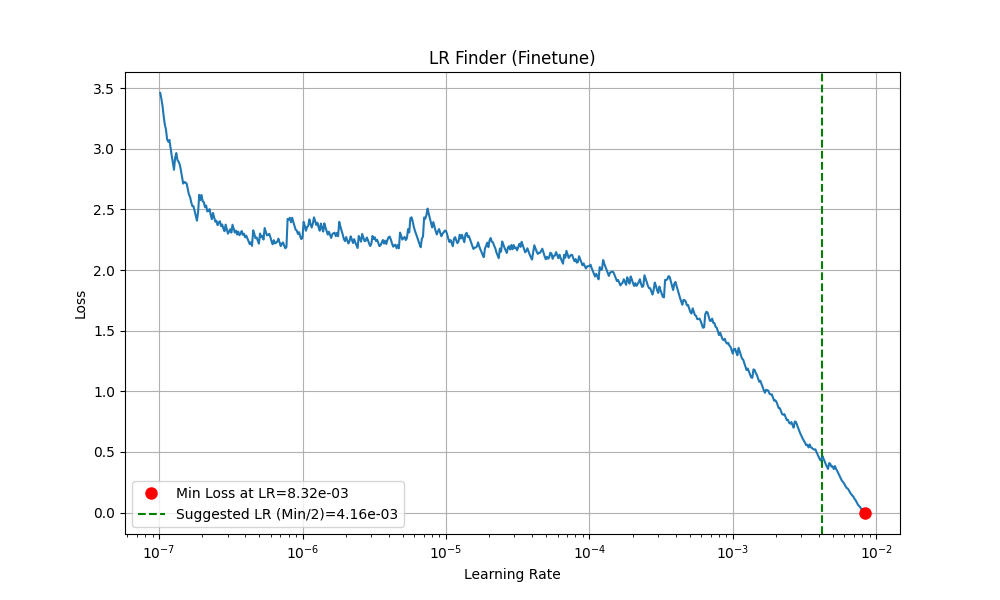
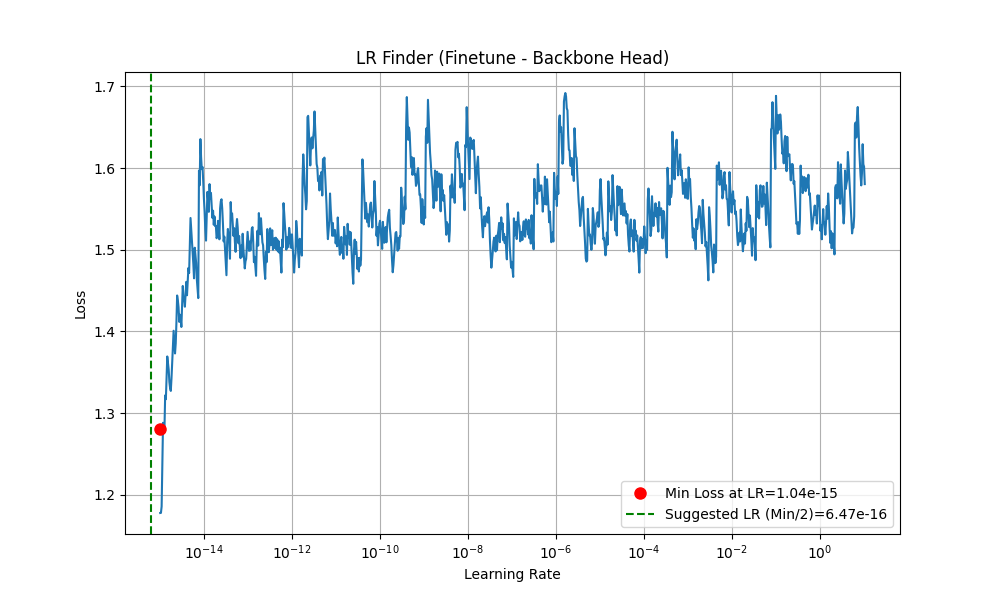
update

diff --git a/src/config.py b/src/config.py
@@ -37,10 +37,10 @@ LEARNING_RATE_PRETRAIN = 2.2e-3
 
 EPOCHS_FINETUNE = 100000  # 配合早停
 PATIENCE_FINETUNE = 500
-LEARNING_RATE_BB_HEAD = 3.5e-3    # 新：Backbone Head 的学习率
-LEARNING_RATE_HETERO = 3.5e-3     # 新：Hetero Head 的学习率 (默认值设为相同)
-GAP_RATIO = 10.0          # Head 与 Backbone 顶层之间的比例
-INTERNAL_RATIO = 1.0      # Backbone 内部层与层之间的比例
+LEARNING_RATE_BB_HEAD = 1e-4    # 新：Backbone Head 的学习率
+LEARNING_RATE_HETERO = 1e-4     # 新：Hetero Head 的学习率 (默认值设为相同)
+GAP_RATIO = 5.0          # Head 与 Backbone 顶层之间的比例
+INTERNAL_RATIO = 10.0      # Backbone 内部层与层之间的比例
 BATCH_A = 128
 BATCH_B = 64  # 线性缩放规则
 

diff --git a/src/find_lr_utils.py b/src/find_lr_utils.py
@@ -127,7 +127,7 @@ def find_finetune_lr(
     original_model.load_state_dict(torch.load(
         pretrained_weights_path, map_location=device))
 
-    start_lr = 1e-7  # 这将是 lr_backbone_head 的起始值
+    start_lr = 1e-15  # 这将是 lr_backbone_head 的起始值
 
     # <<< --- 核心修改：使用 v7 优化器 --- >>>
     print(f"--- [Finetune LR Finder] (v7) ---")
